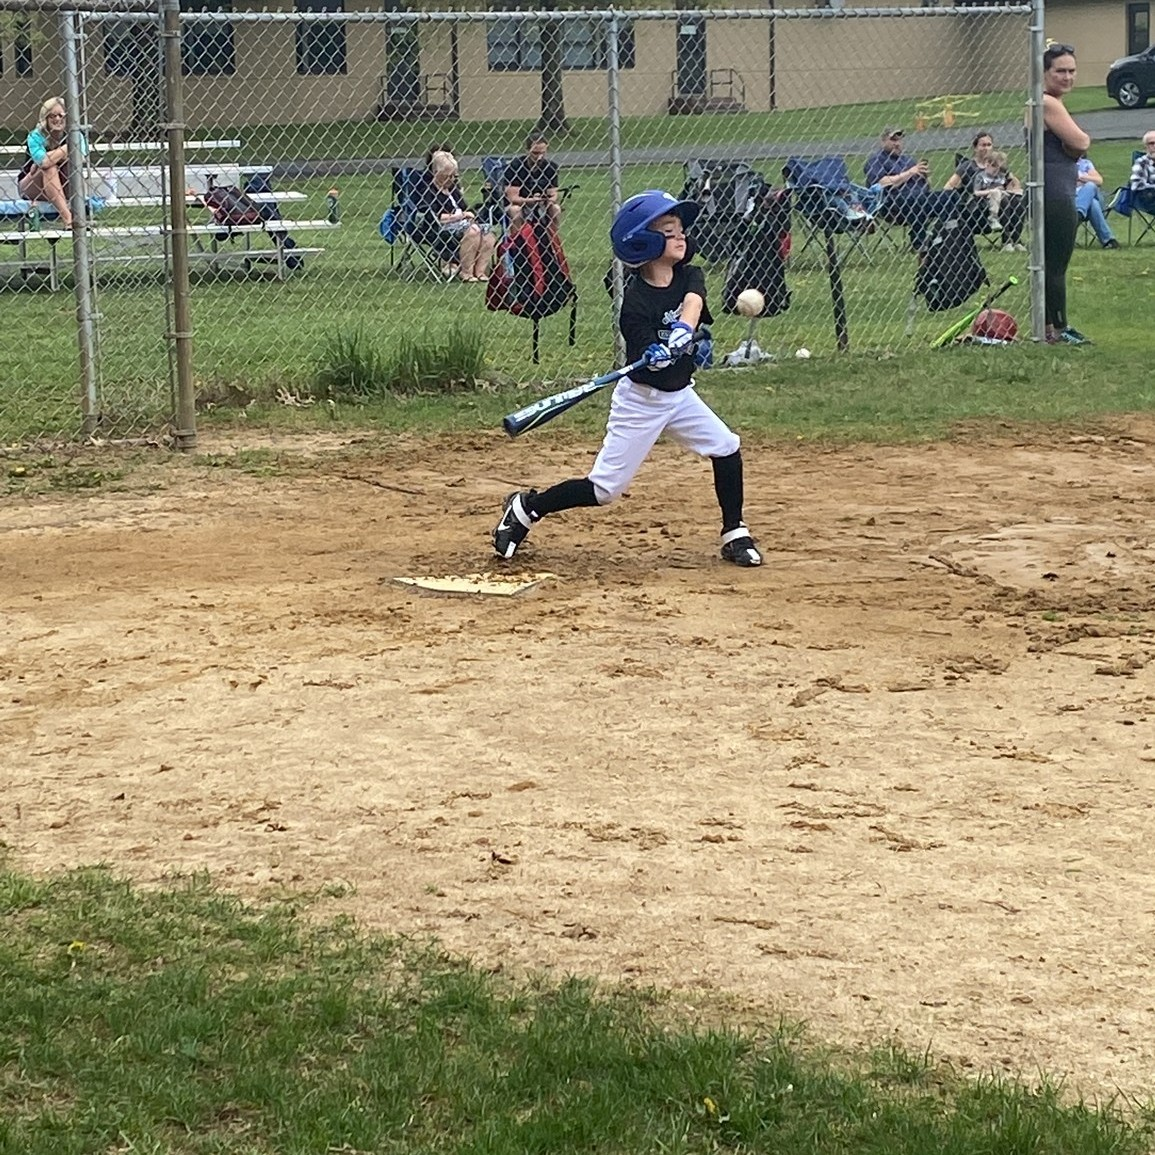
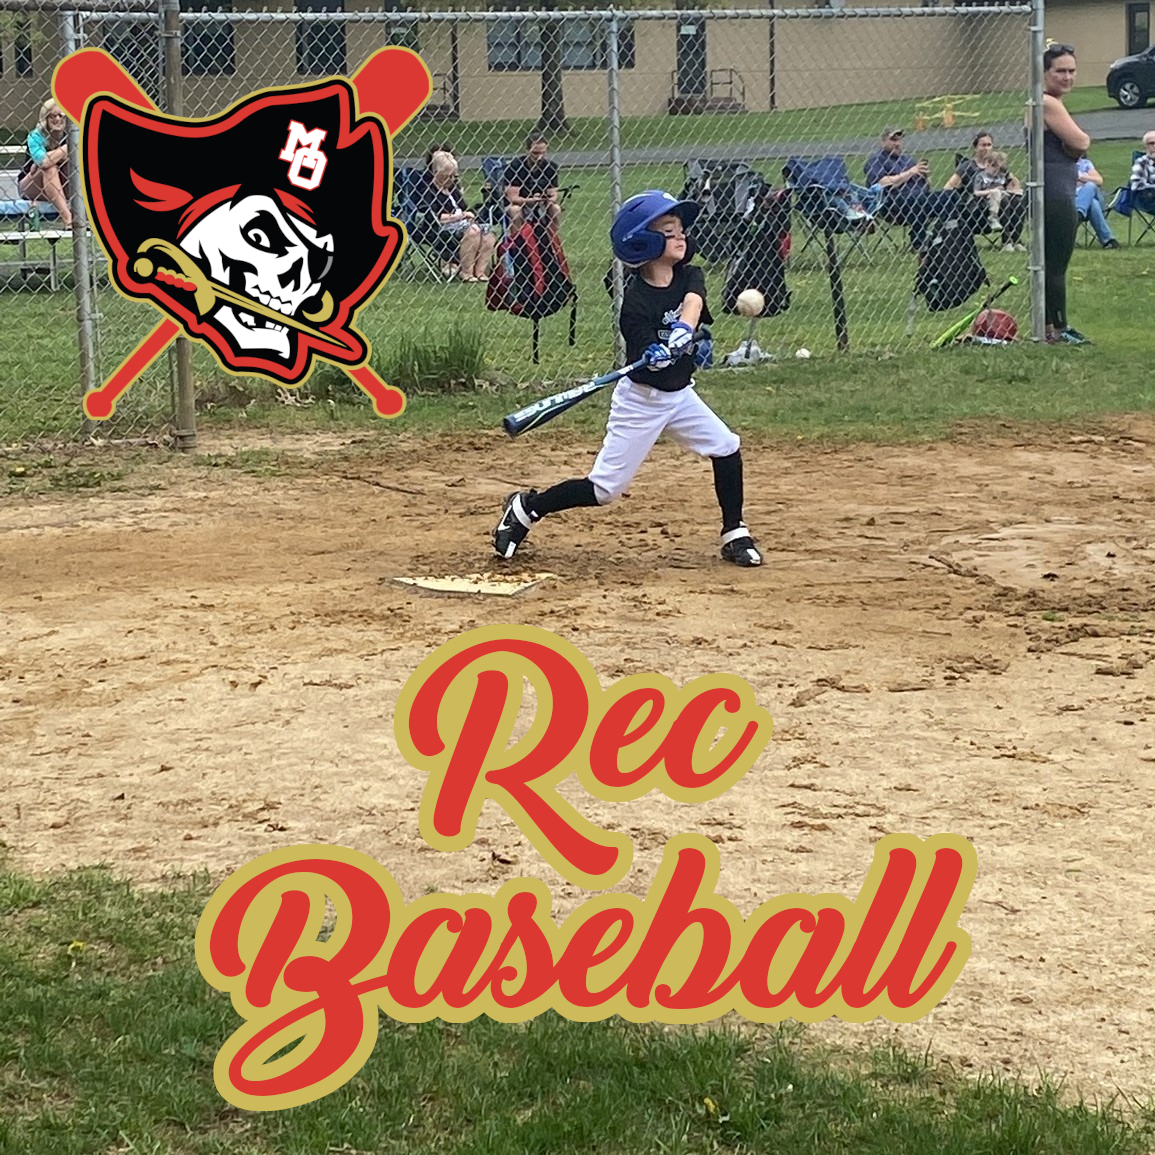
pushing changes for latest newsletter

Changed region(s): [[0.1558, 0.5299, 0.8416, 0.9662], [0.0312, 0.0312, 0.374, 0.374]]

diff --git a/newsletters/20220520/index.html b/newsletters/20220520/index.html
@@ -74,7 +74,7 @@
 								<a target="_blank" href="https://www.facebook.com/mtolivebsa/posts/1032353877630660" class="image flip-card">
 									<div class="flip-card-inner">
 										<div class="flip-card-front">
-											<img src="./images/2022GB-Ginza_1000x1000.png" />
+											<img src="./images/2022GB-Combo.png" />
 										</div>
 										<div class="flip-card-back">
 											<div>
@@ -117,17 +117,17 @@
 								</div>
 							</section>
 							<section class="feature right">
-								<a target="_blank" href="https://www.youtube.com/watch?v=TbX0oFi-qWI" class="image flip-card flip-card-video">
+								<a target="_blank" href="https://www.facebook.com/mtolivebsa" class="image flip-card">
 									<div class="flip-card-inner">
 										<div class="flip-card-front">
-											<!---
-											<img src="./images/travel-softball.jpg" />
-											--->
 											
+											<img src="./images/travel-softball.jpg" />
+											
+											<!---
 											<span>Click to watch the highlight reel!</span>
 											
 											<span style="background-color: #000; z-index:9999; width:100%; height:2em;">Click to watch the highlight reel!</span>
-											<!--- <iframe width="560" height="315" src="https://www.youtube.com/embed/TbX0oFi-qWI?controls=0" title="YouTube video player" frameborder="0" allow="accelerometer; autoplay; clipboard-write; encrypted-media; gyroscope; picture-in-picture" allowfullscreen></iframe> --->
+											<!--- <iframe width="560" height="315" src="https://www.youtube.com/embed/TbX0oFi-qWI?controls=0" title="YouTube video player" frameborder="0" allow="accelerometer; autoplay; clipboard-write; encrypted-media; gyroscope; picture-in-picture" allowfullscreen></iframe> ---
 											<iframe 
 												id="travel-softball-embedded-video"
 												title="YouTube video player"
@@ -142,9 +142,13 @@
 												var videoId = "TbX0oFi-qWI";
 												iframe.src = "https://www.youtube.com/embed/" + videoId + "?autoplay=1&mute=1&version=3&html5=1&hd=1&controls=0&loop=1&playlist=" + videoId + "&playsinline=1&rel=0&showinfo=0&modestbranding=1&related=0&enablejsapi=1&origin=" + window.location.hostname;
 											</script>
+											--->
 										</div>
-										<div class="flip-card-back" style="background-color: #eaeaea; display: flex;">
-												<img style="margin:auto;" src="./images/travel-softball.jpg" />
+										<div class="flip-card-back">
+											<div>
+												<h1>Great job ladies!!</h1>
+												<p style="font-weight:bold;">Click for more info!</p>
+											</div>
 										</div>
 									</div>
 								</a>
@@ -166,7 +170,7 @@
 								<a target="_blank" href="https://www.facebook.com/mtolivebsa" class="image flip-card">
 									<div class="flip-card-inner">
 										<div class="flip-card-front">
-											<img src="./images/rec-softball.jpeg" />
+											<img src="./images/rec-softball.jpg" />
 										</div>
 										<div class="flip-card-back">
 											<div>
@@ -306,29 +310,6 @@
 									<p>Parents! We need <strong class="marauder-red" style="font-weight:bold; font-size: x-large; vertical-align: middle;">★★YOU★★</strong> to send us your Game Day Highlights and Pictures!  Upload your photos to <span class="marauder-red news-emphasis-large" style="font-size:100%;"><a href="https://photodrop.mtolivebsa.com" target="_blank">https://photodrop.mtolivebsa.com</a></span> or send to <span class="marauder-red news-emphasis-large" style="font-size:100%;"><a href="mailto:news@mtolivebsa.com">News@mtolivebsa.com</a></span> to get featured on our social and newsletters!</p>
 									<div class="mobile-only">
 										<div class="live-border-container"><a target="_blank" href="https://photodrop.mtolivebsa.com"><div class="live-border"></div></a></div>
-									</div>
-								</div>
-							</section>
-							<section class="feature left">
-								<a target="_blank" href="mailto:jdelardo@gmail.com" class="image flip-card">
-									<div class="flip-card-inner">
-										<div class="flip-card-front">
-											<img src="./images/Raffle-Promotion-Flyer.png" />
-										</div>
-										<div class="flip-card-back">
-											<div>
-												<h1>Thank You from MOBSA!</h1>
-												<p style="font-weight:bold;">Click for more info!</p>
-											</div>
-										</div>
-									</div>
-								</a>
-								<div class="content">
-									<h3>Call for Donation Prizes</h3>
-									<p>We're looking for donations for Raffle or Tricky Tray prizes for the Memorial Blast Tournament. For more information contact: 
-										<span class="marauder-red news-emphasis-large"><a target="_blank" href="mailto:jdelardo@gmail.com">jdelardo@gmail.com</a></span></p>
-									<div class="mobile-only">
-										<div class="live-border-container"><a target="_blank" href="mailto:jdelardo@gmail.com"><div class="live-border"></div></a></div>
 									</div>
 								</div>
 							</section>
